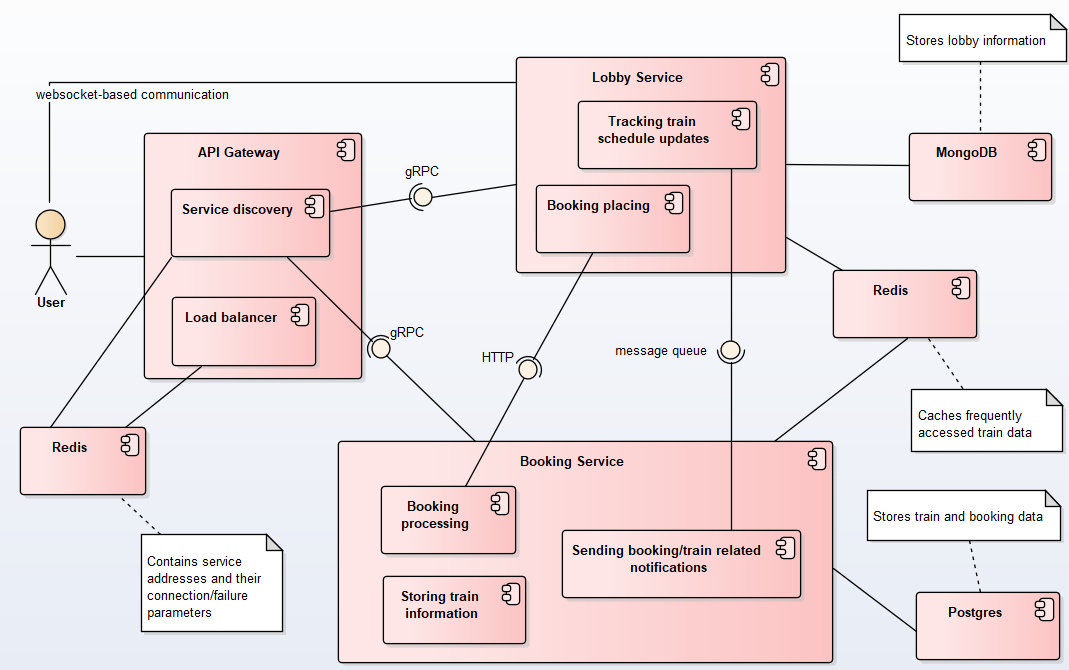
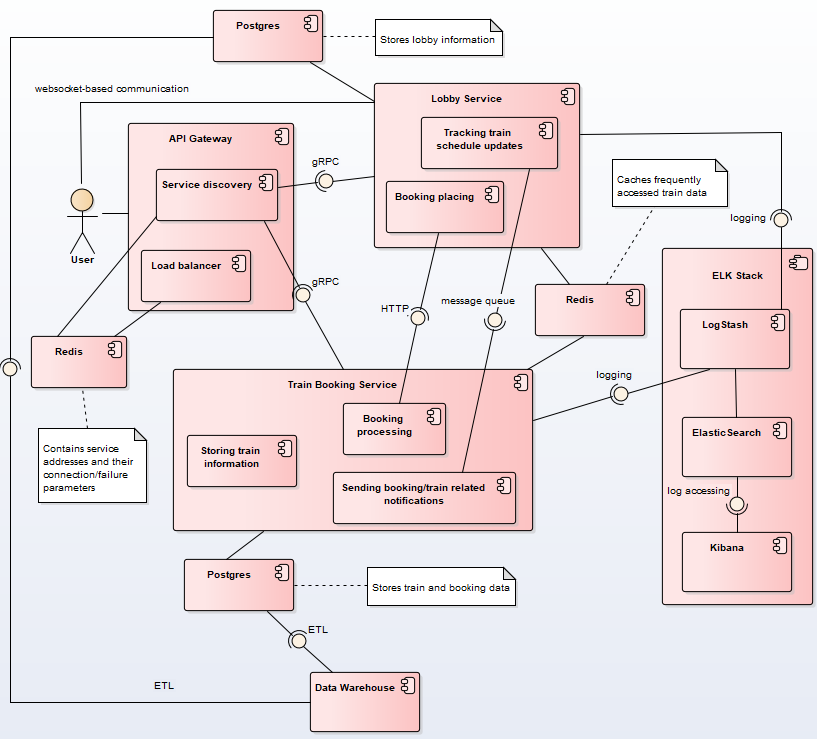
Refactor architecture diagram.
Fix gateway response error catching.

diff --git a/gateway/gateway.js b/gateway/gateway.js
@@ -153,7 +153,7 @@ async function proxyRequestWithLeastConnections(serviceKey) {
                 res.on('finish', async () => {
                     await redisClient.decr(connectionCountKey);
 
-                    if (proxyRes.statusCode >= 400) {
+                    if (proxyRes.statusCode >= 408) {
                         await handleCircuitBreaker(serviceKey, targetUrl);
                     }
                 });

diff --git a/README.md b/README.md
@@ -2,7 +2,7 @@
 Distributed system for booking train tickets and tracking their schedule.
 
 ## Setup and Execution
-Before running `docker compose` command you will need to create a `.env` file in the root of project directory. The file should look like this (replace the placeholders with your actual connection credentials):
+Before running `docker compose` command you will need to create a `.env` file in the project root directory. The file should look like this (replace the placeholders with your actual connection credentials):
 
 ```
 TRAIN_DATABASE_URL=postgresql://your_username:your_password@postgres_trains:5432/your_db
@@ -64,7 +64,24 @@ By following these two rules you will be able to enjoy exploring the world of mi
 Regarding inter-service communication: those requests which will be directed from the lobby service to the booking service will be performed via **HTTP** (ticket booking request). On the other hand, real-time notification processing (booking confirmation) will be executed via an asynchronous message queue (**RabbitMQ**). **ServiceDiscovery**, on the other hand, is going to receive **gRPC** requests from the services in order to register them.
 
 ## Data Management Design
-As it was mentioned earlier each of the two services will have its own database (shared among their instances). **Lobby Service** will be using MongoDB cloud solution and **Booking Service** will rely on the local Postgres database.
+As it was mentioned earlier each of the two services will have its own database (shared among their instances). **Lobby Service** and **Booking Service** will rely on the local Postgres databases. 
+
+However, another important detail is that service endpoints can only be accessed via gateway routes by appending them at the end of each request.
+* **Gateway Endpoints**
+
+    * `GET /status` (simple status endpoint - healthcheck)
+
+        **Response**:
+        ```
+        {
+            "status": "OK", 
+            "message": "Gateway is running"
+        }
+        ```
+
+    * `http://localhost:8080/ls` for accessing lobby service
+    * `http://localhost:8080/ts` for accessing train booking service
+
 * **Lobby Service Endpoints**:
 
     * `GET /status` (simple status endpoint - healthcheck)
